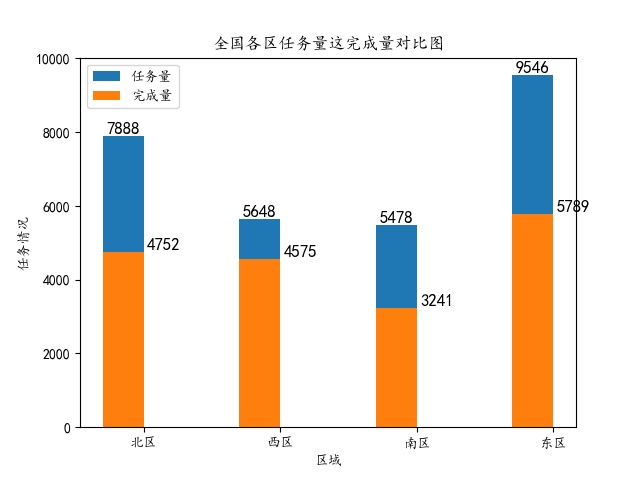
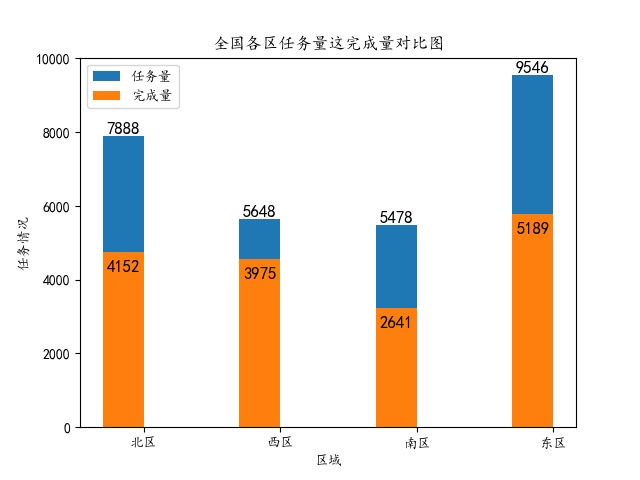
Site updated: 2020-04-26 15:39:16

diff --git a/2020/04/22/绘制拆线图/index.html b/2020/04/22/绘制拆线图/index.html
@@ -95,8 +95,11 @@
 <meta property="og:image" content="http://yoursite.com/2020/04/22/绘制拆线图/5.png">
 <meta property="og:image" content="http://yoursite.com/2020/04/22/绘制拆线图/bar2.jpg">
 <meta property="og:image" content="http://yoursite.com/2020/04/22/绘制拆线图/6.png">
+<meta property="og:image" content="http://yoursite.com/2020/04/22/绘制拆线图/7.png">
 <meta property="og:image" content="http://yoursite.com/2020/04/22/绘制拆线图/bar3.jpg">
-<meta property="og:updated_time" content="2020-04-26T06:42:54.000Z">
+<meta property="og:image" content="http://yoursite.com/2020/04/22/绘制拆线图/8.png">
+<meta property="og:image" content="http://yoursite.com/2020/04/22/绘制拆线图/barh.jpg">
+<meta property="og:updated_time" content="2020-04-26T07:38:02.000Z">
 <meta name="twitter:card" content="summary">
 <meta name="twitter:title" content="绘制拆线图">
 <meta name="twitter:description" content="拆线图基础1234567891011121314151617181920212223242526272829303132333435363738394041# 导入库import numpy as npimport matplotlib.pyplot as plt# 解决中文乱码问题plt.rcParams[&amp;apos;font.sans-serif&amp;apos;] = [&amp;apos;KaiTi&amp;a">
@@ -356,9 +359,15 @@
 <h2 id="簇状柱形图"><a href="#簇状柱形图" class="headerlink" title="簇状柱形图"></a>簇状柱形图</h2><img src="/2020/04/22/绘制拆线图/5.png">
 <img src="/2020/04/22/绘制拆线图/bar2.jpg">
 
-<h2 id="堆积柱形图"><a href="#堆积柱形图" class="headerlink" title="堆积柱形图"></a>堆积柱形图</h2><p>这个与上一个图的区别是第二柱子在第一柱子上叠加绘图，看图一目了然</p>
+<h2 id="堆积柱形图"><a href="#堆积柱形图" class="headerlink" title="堆积柱形图"></a>堆积柱形图</h2><p>这个与上一个图的区别是第二柱子在第一柱子上叠加绘图，看图一目了然<br>使重叠：</p>
 <img src="/2020/04/22/绘制拆线图/6.png">
+<p>使数据标签下移 600 单位距离：</p>
+<img src="/2020/04/22/绘制拆线图/7.png">
 <img src="/2020/04/22/绘制拆线图/bar3.jpg">
+
+<h1 id="条形图基础"><a href="#条形图基础" class="headerlink" title="条形图基础"></a>条形图基础</h1><p>条形图与柱形图类似，只不过是将柱形图的x轴和Y轴进行了调换，纵向变成横向。<br>使用 plt 库中的 barh 方法来绘制<br>转换方法如下</p>
+<img src="/2020/04/22/绘制拆线图/8.png">
+<img src="/2020/04/22/绘制拆线图/barh.jpg">
       
     </div>
     
@@ -545,7 +554,7 @@
             
 
             
-              <div class="post-toc-content"><ol class="nav"><li class="nav-item nav-level-1"><a class="nav-link" href="#拆线图基础"><span class="nav-number">1.</span> <span class="nav-text">拆线图基础</span></a></li><li class="nav-item nav-level-1"><a class="nav-link" href="#柱状图基础"><span class="nav-number">2.</span> <span class="nav-text">柱状图基础</span></a><ol class="nav-child"><li class="nav-item nav-level-2"><a class="nav-link" href="#普通柱形图"><span class="nav-number">2.1.</span> <span class="nav-text">普通柱形图</span></a></li><li class="nav-item nav-level-2"><a class="nav-link" href="#簇状柱形图"><span class="nav-number">2.2.</span> <span class="nav-text">簇状柱形图</span></a></li><li class="nav-item nav-level-2"><a class="nav-link" href="#堆积柱形图"><span class="nav-number">2.3.</span> <span class="nav-text">堆积柱形图</span></a></li></ol></li></ol></div>
+              <div class="post-toc-content"><ol class="nav"><li class="nav-item nav-level-1"><a class="nav-link" href="#拆线图基础"><span class="nav-number">1.</span> <span class="nav-text">拆线图基础</span></a></li><li class="nav-item nav-level-1"><a class="nav-link" href="#柱状图基础"><span class="nav-number">2.</span> <span class="nav-text">柱状图基础</span></a><ol class="nav-child"><li class="nav-item nav-level-2"><a class="nav-link" href="#普通柱形图"><span class="nav-number">2.1.</span> <span class="nav-text">普通柱形图</span></a></li><li class="nav-item nav-level-2"><a class="nav-link" href="#簇状柱形图"><span class="nav-number">2.2.</span> <span class="nav-text">簇状柱形图</span></a></li><li class="nav-item nav-level-2"><a class="nav-link" href="#堆积柱形图"><span class="nav-number">2.3.</span> <span class="nav-text">堆积柱形图</span></a></li></ol></li><li class="nav-item nav-level-1"><a class="nav-link" href="#条形图基础"><span class="nav-number">3.</span> <span class="nav-text">条形图基础</span></a></li></ol></div>
             
 
           </div>

diff --git a/2020/01/03/OS模块的常用文件操作/index.html b/2020/01/03/OS模块的常用文件操作/index.html
@@ -68,7 +68,7 @@
 
 
 
-  <meta name="keywords" content="module,os,python,python进阶,">
+  <meta name="keywords" content="python进阶,python,module,os,">
 
 
 
@@ -80,7 +80,7 @@
 
 
 <meta name="description" content="操作系统Operating SystemPython 常用 OS 库模块操作  获取当前路径os.getcwd(): 创建目录os.mkdir():通过此命令创建了 test 目录如下：  修改目录名称os.rename(‘旧目录名’, ‘新目录名’)：通过此命令修改 test 为 test2  删除目录os.rmdir(‘要删除的目录’)可以看到成功删除了 test2 目录 进入目录os.chd">
-<meta name="keywords" content="module,os,python,python进阶">
+<meta name="keywords" content="python进阶,python,module,os">
 <meta property="og:type" content="article">
 <meta property="og:title" content="OS模块的常用文件操作">
 <meta property="og:url" content="http://yoursite.com/2020/01/03/OS模块的常用文件操作/index.html">
@@ -396,13 +396,13 @@ Linux 系统显示 posix , Windows 显示 nt</li>
       
         <div class="post-tags">
           
-            <a href="/tags/module/" rel="tag"># module</a>
-          
-            <a href="/tags/os/" rel="tag"># os</a>
+            <a href="/tags/python进阶/" rel="tag"># python进阶</a>
           
             <a href="/tags/python/" rel="tag"># python</a>
           
-            <a href="/tags/python进阶/" rel="tag"># python进阶</a>
+            <a href="/tags/module/" rel="tag"># module</a>
+          
+            <a href="/tags/os/" rel="tag"># os</a>
           
         </div>
       

diff --git a/2019/11/23/Python各种下划线的骚操作/index.html b/2019/11/23/Python各种下划线的骚操作/index.html
@@ -68,7 +68,7 @@
 
 
 
-  <meta name="keywords" content="python进阶,下划线,变量命名,">
+  <meta name="keywords" content="下划线,变量命名,python进阶,">
 
 
 
@@ -80,7 +80,7 @@
 
 
 <meta name="description" content="我们在定义一些变量或者方法的时候，常常会用到下划线，在 Python 中，下划线可是很有用处的，比如变量、方法中的使用，有些是一个下划线开头的：_xx，有些是两个下划线开头的：__xx，有些是在名称的结尾添加下划线的：xx_，还有一些方法我们常常看到两个下划线开头和结尾的：__xx__ 等等… 下划线的运用种类“_““_xx”“xx_““__xx”“__xx__““_classname__xx”">
-<meta name="keywords" content="python进阶,下划线,变量命名">
+<meta name="keywords" content="下划线,变量命名,python进阶">
 <meta property="og:type" content="article">
 <meta property="og:title" content="Python各种下划线的骚操作">
 <meta property="og:url" content="http://yoursite.com/2019/11/23/Python各种下划线的骚操作/index.html">
@@ -421,11 +421,11 @@
       
         <div class="post-tags">
           
-            <a href="/tags/python进阶/" rel="tag"># python进阶</a>
-          
             <a href="/tags/下划线/" rel="tag"># 下划线</a>
           
             <a href="/tags/变量命名/" rel="tag"># 变量命名</a>
+          
+            <a href="/tags/python进阶/" rel="tag"># python进阶</a>
           
         </div>
       

diff --git a/index.html b/index.html
@@ -350,9 +350,15 @@
 <h2 id="簇状柱形图"><a href="#簇状柱形图" class="headerlink" title="簇状柱形图"></a>簇状柱形图</h2><img src="/2020/04/22/绘制拆线图/5.png">
 <img src="/2020/04/22/绘制拆线图/bar2.jpg">
 
-<h2 id="堆积柱形图"><a href="#堆积柱形图" class="headerlink" title="堆积柱形图"></a>堆积柱形图</h2><p>这个与上一个图的区别是第二柱子在第一柱子上叠加绘图，看图一目了然</p>
+<h2 id="堆积柱形图"><a href="#堆积柱形图" class="headerlink" title="堆积柱形图"></a>堆积柱形图</h2><p>这个与上一个图的区别是第二柱子在第一柱子上叠加绘图，看图一目了然<br>使重叠：</p>
 <img src="/2020/04/22/绘制拆线图/6.png">
+<p>使数据标签下移 600 单位距离：</p>
+<img src="/2020/04/22/绘制拆线图/7.png">
 <img src="/2020/04/22/绘制拆线图/bar3.jpg">
+
+<h1 id="条形图基础"><a href="#条形图基础" class="headerlink" title="条形图基础"></a>条形图基础</h1><p>条形图与柱形图类似，只不过是将柱形图的x轴和Y轴进行了调换，纵向变成横向。<br>使用 plt 库中的 barh 方法来绘制<br>转换方法如下</p>
+<img src="/2020/04/22/绘制拆线图/8.png">
+<img src="/2020/04/22/绘制拆线图/barh.jpg">
           
         
       

diff --git a/css/main.css b/css/main.css
@@ -1822,7 +1822,7 @@ pre .javascript .function {
   width: 4px;
   height: 4px;
   border-radius: 50%;
-  background: #fffe5e;
+  background: #6fd6ee;
 }
 .links-of-blogroll {
   font-size: 13px;
